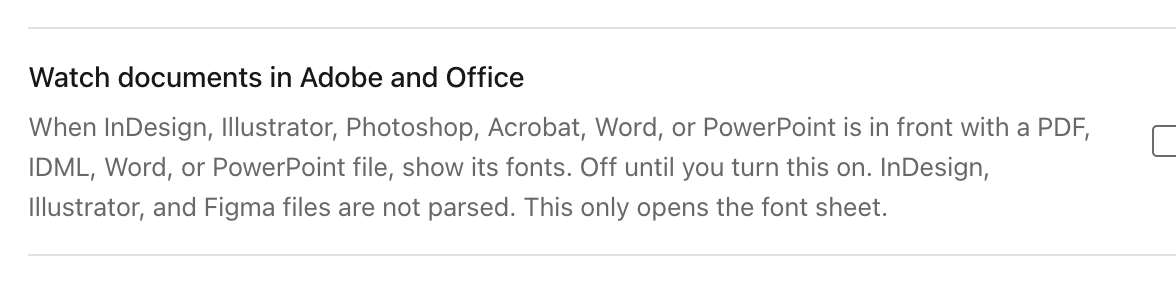
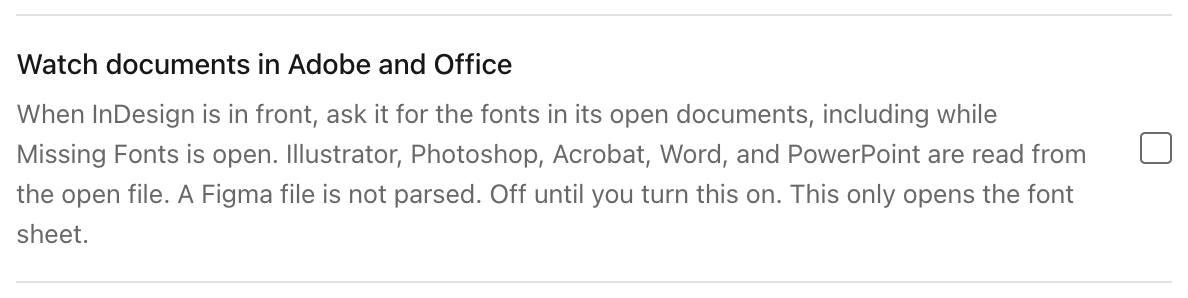
Open Settings from the Finder extension announcement (#111)
* Open Settings from the Finder extension announcement.

The what's-new Finder page can jump to Settings → General and scroll to the Finder Sync row. Search and Adobe watch figures match the token field and the InDesign live-query copy.

* Open Login Items from the Finder menu settings row.

The announcement's Open Settings control scrolls to a Finder menu button that opens System Settings → Login Items & Extensions, the pane where that extension is turned on.

diff --git a/src/components/SettingsDialog.tsx b/src/components/SettingsDialog.tsx
@@ -171,6 +171,7 @@ export function SettingsDialog({
   onCheckAppUpdate,
   highlightAppUpdate = false,
   highlightWatchFolders = false,
+  highlightFinderSync = false,
   onStartOnboarding,
   retail = null,
   retailFamiliesOnMac,
@@ -187,6 +188,8 @@ export function SettingsDialog({
   onCheckAppUpdate?: (refresh?: boolean) => void
   highlightAppUpdate?: boolean
   highlightWatchFolders?: boolean
+  /** Open General and scroll to the Finder Sync control in the App section. */
+  highlightFinderSync?: boolean
   onStartOnboarding?: () => void
   retail?: RetailSyncStatus | null
   retailFamiliesOnMac?: ReadonlySet<string>
@@ -227,6 +230,22 @@ export function SettingsDialog({
     if (!open || !highlightWatchFolders) return
     setCategory('folders')
   }, [open, highlightWatchFolders])
+
+  useEffect(() => {
+    if (!open || !highlightFinderSync) return
+    setCategory('general')
+  }, [open, highlightFinderSync])
+
+  useEffect(() => {
+    if (!open || !highlightFinderSync || category !== 'general') return
+    const frame = requestAnimationFrame(() => {
+      const control = document.querySelector<HTMLElement>('[aria-label="Finder menu in Login Items"]')
+      const row = control?.closest('.grid')
+      const target = row instanceof HTMLElement ? row : document.getElementById('finder-sync-settings')
+      target?.scrollIntoView({ block: 'center' })
+    })
+    return () => cancelAnimationFrame(frame)
+  }, [open, highlightFinderSync, category])
 
   useEffect(() => {
     if (!open) return
@@ -433,6 +452,7 @@ export function SettingsDialog({
                   checkingAppUpdate={checkingAppUpdate}
                   onCheckAppUpdate={onCheckAppUpdate}
                   highlightAppUpdate={highlightAppUpdate}
+                  highlightFinderSync={highlightFinderSync}
                   onStartOnboarding={onStartOnboarding}
                 />
               )}
@@ -525,6 +545,7 @@ function GeneralPane({
   checkingAppUpdate,
   onCheckAppUpdate,
   highlightAppUpdate,
+  highlightFinderSync,
   onStartOnboarding,
 }: {
   settings: AppSettings | null
@@ -535,6 +556,7 @@ function GeneralPane({
   checkingAppUpdate: boolean
   onCheckAppUpdate?: (refresh?: boolean) => void
   highlightAppUpdate: boolean
+  highlightFinderSync: boolean
   onStartOnboarding?: () => void
 }) {
   return (
@@ -671,7 +693,13 @@ function GeneralPane({
         <LatinPreviewRow settings={settings} busy={busy} onSave={onSave} />
       </SettingsSection>
 
-      <SettingsSection title="App">
+      <SettingsSection
+        id="finder-sync-settings"
+        title="App"
+        className={cn(
+          highlightFinderSync && 'rounded-md ring-2 ring-ring/40 ring-offset-2 ring-offset-background',
+        )}
+      >
         <SettingsRow
           label="Icon in menu bar"
           description="Keep Cuttler running in the menu bar after you close the window. The Dock icon hides until you show the window again. Click the icon to show the window, reinstall updated fonts, clear caches, or quit."
@@ -716,6 +744,25 @@ function GeneralPane({
               onChange={(event) => void onSave({ openAtLogin: event.target.checked })}
               className={checkboxClass}
             />
+          </SettingsRow>
+        ) : null}
+        {isDesktop ? (
+          <SettingsRow
+            label="Finder menu"
+            description="Enable the Finder menu in Login Items & Extensions. Until that is on, use Services → Install."
+          >
+            <Button
+              type="button"
+              variant="outline"
+              size="sm"
+              aria-label="Finder menu in Login Items"
+              disabled={busy}
+              onClick={() => {
+                void window.fontButlerDesktop?.openFinderLoginItems?.()
+              }}
+            >
+              Open Login Items & Extensions
+            </Button>
           </SettingsRow>
         ) : null}
         <SettingsRow

diff --git a/src/App.tsx b/src/App.tsx
@@ -249,6 +249,8 @@ function AppShell() {
   const [settingsOpen, setSettingsOpen] = useState(false)
   const [settingsFocusAppUpdate, setSettingsFocusAppUpdate] = useState(false)
   const [settingsFocusWatchFolders, setSettingsFocusWatchFolders] = useState(false)
+  const [settingsFocusFinderSync, setSettingsFocusFinderSync] = useState(false)
+  const [announcementSuspended, setAnnouncementSuspended] = useState(false)
   const [appUpdate, setAppUpdate] = useState<AppUpdateStatus | null>(null)
   const [appUpdateInstall, setAppUpdateInstall] = useState<{
     phase: 'idle' | 'downloading' | 'verifying' | 'installing' | 'opening' | 'error'
@@ -268,6 +270,16 @@ function AppShell() {
     setSettingsOpen(closed.settingsOpen)
     setSettingsFocusAppUpdate(closed.focusAppUpdate)
     setSettingsFocusWatchFolders(closed.focusWatchFolders)
+    setSettingsFocusFinderSync(closed.focusFinderSync)
+    setAnnouncementSuspended(false)
+  }
+
+  function openFinderSyncSettings() {
+    setSettingsFocusAppUpdate(false)
+    setSettingsFocusWatchFolders(false)
+    setSettingsFocusFinderSync(true)
+    setAnnouncementSuspended(true)
+    setSettingsOpen(true)
   }
 
   function applyFamilyTagPayload(payload: { tags?: FamilyTag[]; familyTags?: FamilyTagAssignment[] }) {
@@ -943,6 +955,7 @@ function AppShell() {
     function onKeyDown(event: KeyboardEvent) {
       if ((event.metaKey || event.ctrlKey) && event.key === ',') {
         event.preventDefault()
+        setSettingsFocusFinderSync(false)
         setSettingsOpen(true)
       }
     }
@@ -964,6 +977,8 @@ function AppShell() {
     })
     const stopDesktop = window.fontButlerDesktop?.onOpenSettings((payload) => {
       setSettingsFocusAppUpdate(payload?.focus === 'app-update')
+      setSettingsFocusWatchFolders(false)
+      setSettingsFocusFinderSync(false)
       setSettingsOpen(true)
     })
     const stopReinstall = window.fontButlerDesktop?.onReinstallFonts?.((payload) => {
@@ -2602,11 +2617,13 @@ function AppShell() {
           onOpenSettings={() => {
             setSettingsFocusAppUpdate(Boolean(appUpdate?.updateAvailable))
             setSettingsFocusWatchFolders(false)
+            setSettingsFocusFinderSync(false)
             setSettingsOpen(true)
           }}
           onOpenWatchFoldersSettings={() => {
             setSettingsFocusAppUpdate(false)
             setSettingsFocusWatchFolders(true)
+            setSettingsFocusFinderSync(false)
             setSettingsOpen(true)
           }}
         />
@@ -2731,6 +2748,7 @@ function AppShell() {
                       onOpenSettings={() => {
                         setSettingsFocusAppUpdate(false)
                         setSettingsFocusWatchFolders(true)
+                        setSettingsFocusFinderSync(false)
                         setSettingsOpen(true)
                       }}
                     />
@@ -3779,6 +3797,7 @@ function AppShell() {
           onCheckAppUpdate={(refresh) => void loadAppUpdate(refresh)}
           highlightAppUpdate={settingsFocusAppUpdate}
           highlightWatchFolders={settingsFocusWatchFolders}
+          highlightFinderSync={settingsFocusFinderSync}
           onStartOnboarding={() => {
             closeSettings()
             setOnboardingOpen(startOnboardingFromSettings().onboardingOpen)
@@ -3797,9 +3816,10 @@ function AppShell() {
         />
         <AnnouncementDialog
           announcement={announcement}
-          open={Boolean(announcement) && !onboardingOpen}
+          open={Boolean(announcement) && !onboardingOpen && !announcementSuspended}
           currentIcon={settings ? parseAppIconStyle(settings.appIcon) : null}
           onSelectIcon={chooseAnnouncementIcon}
+          onOpenFinderSettings={openFinderSyncSettings}
           onDismiss={(item) => {
             setAnnouncement(null)
             window.fontButlerDesktop?.dismissAnnouncement?.(item.id)

diff --git a/src/components/announcement-dialog.test.ts b/src/components/announcement-dialog.test.ts
@@ -85,6 +85,9 @@ test('AnnouncementDialog reuses welcome Dialog surface classes', async () => {
   assert.match(source, /'activate-until-quit':/)
   assert.match(source, /'adobe-document-watch':/)
   assert.match(source, /'finder-extension':/)
+  assert.match(source, /FINDER_EXTENSION_PAGE_ID/)
+  assert.match(source, /Open Settings/)
+  assert.match(source, /onOpenFinderSettings\?\.\(\)/)
   assert.match(source, /compare:\s*\[/)
   assert.doesNotMatch(source, /'library-search':/)
   assert.doesNotMatch(source, /'search-filter-suggestions':/)
@@ -140,11 +143,24 @@ test('ConfettiBurst is a main-window overlay, not nested in the dialog', async (
   const dialog = await readFile(fileURLToPath(new URL('./AnnouncementDialog.tsx', import.meta.url)), 'utf8')
   const confetti = await readFile(fileURLToPath(new URL('./ConfettiBurst.tsx', import.meta.url)), 'utf8')
   const app = await readFile(fileURLToPath(new URL('../App.tsx', import.meta.url)), 'utf8')
+  const settings = await readFile(fileURLToPath(new URL('./SettingsDialog.tsx', import.meta.url)), 'utf8')
+  const main = await readFile(fileURLToPath(new URL('../../electron/main.mjs', import.meta.url)), 'utf8')
+  const preload = await readFile(fileURLToPath(new URL('../../electron/preload.cjs', import.meta.url)), 'utf8')
   assert.doesNotMatch(dialog, /ConfettiBurst|confetti|canvas/)
   assert.match(confetti, /fixed inset-0/)
   assert.match(confetti, /burstConfetti/)
   assert.match(app, /<ConfettiBurst playKey=\{confettiPlayKey\}/)
   assert.match(app, /<AnnouncementDialog/)
   assert.match(app, /onSelectIcon=\{chooseAnnouncementIcon\}/)
+  assert.match(app, /onOpenFinderSettings=\{openFinderSyncSettings\}/)
+  assert.match(app, /highlightFinderSync=\{settingsFocusFinderSync\}/)
+  assert.match(settings, /id="finder-sync-settings"/)
+  const finderLabels = settings.match(/aria-label="Finder menu in Login Items"/g) ?? []
+  assert.equal(finderLabels.length, 2)
+  assert.match(settings, /Open Login Items & Extensions/)
+  assert.match(settings, /openFinderLoginItems\?\.\(\)/)
+  assert.match(main, /open-finder-login-items/)
+  assert.match(main, /x-apple\.systempreferences:com\.apple\.LoginItems-Settings\.extension/)
+  assert.match(preload, /openFinderLoginItems: \(\) => ipcRenderer\.invoke\('open-finder-login-items'\)/)
   assert.match(app, /updateSettings\(\{ appIcon: style \}\)/)
 })

diff --git a/src/components/AnnouncementDialog.tsx b/src/components/AnnouncementDialog.tsx
@@ -16,6 +16,7 @@ import {
 } from '../../shared/announcements.ts'
 
 const RENAME_PAGE_ID = 'rename'
+const FINDER_EXTENSION_PAGE_ID = 'finder-extension'
 const CUTTLER_ICON: AppIconStyle = 'cuttler'
 
 type PageFigure = { src: string; alt: string }
@@ -54,7 +55,7 @@ const PAGE_FIGURES: Record<string, PageFigure[]> = {
     },
     {
       src: '/announcement/search-filter-suggestions.png',
-      alt: 'Search field with matching filter suggestions',
+      alt: 'Search field with a chosen filter in the field and matching suggestions',
     },
   ],
   'activate-until-quit': [
@@ -101,6 +102,7 @@ export function AnnouncementDialog({
   onDismiss,
   currentIcon = null,
   onSelectIcon,
+  onOpenFinderSettings,
 }: {
   announcement: Announcement | null
   open: boolean
@@ -108,13 +110,15 @@ export function AnnouncementDialog({
   /** Null until settings have loaded, so the old icon is not guessed. */
   currentIcon?: AppIconStyle | null
   onSelectIcon?: (style: AppIconStyle) => Promise<void> | void
+  /** Opens Settings on the Finder Sync control. */
+  onOpenFinderSettings?: () => void
 }) {
   const item = announcement
   const pages = item ? pagesFor(item) : []
   const dismissedRef = useRef(false)
   const [saving, setSaving] = useState(false)
   const [pageIndex, setPageIndex] = useState(0)
-  const resetKey = `${open}:${item?.id ?? ''}`
+  const resetKey = item?.id ?? ''
   const [seenKey, setSeenKey] = useState(resetKey)
   if (seenKey !== resetKey) {
     setSeenKey(resetKey)
@@ -242,6 +246,11 @@ export function AnnouncementDialog({
           </div>
           {offersIconChoice ? null : (
             <div className="flex justify-end gap-2">
+              {page?.id === FINDER_EXTENSION_PAGE_ID ? (
+                <Button type="button" variant="outline" onClick={() => onOpenFinderSettings?.()}>
+                  Open Settings
+                </Button>
+              ) : null}
               {lastPage ? (
                 <Button type="button" onClick={dismiss}>
                   Got it

diff --git a/shared/announcements.ts b/shared/announcements.ts
@@ -44,7 +44,7 @@ export const WHATS_NEW_PAGES: AnnouncementPage[] = [
   {
     id: 'advanced-search',
     title: 'Advanced search',
-    body: 'Type several words — each one has to match. A tag name finds families with that tag. Start typing a filter name and matching filters appear under the search field; choose one to narrow the library and set the preview style.',
+    body: 'Type several words — each one has to match. A tag name finds families with that tag. Start typing a filter name and matching filters appear under the search field; choose one and it stays in the field, narrowing the library and the preview style.',
   },
   {
     id: 'activate-until-quit',
@@ -54,7 +54,7 @@ export const WHATS_NEW_PAGES: AnnouncementPage[] = [
   {
     id: 'adobe-document-watch',
     title: 'Adobe document watch',
-    body: 'In Settings, turn on Watch documents in Adobe and Office. When InDesign, Illustrator, Photoshop, Acrobat, Word, or PowerPoint is in front with a supported file, Cuttler opens the font sheet for that document.',
+    body: 'In Settings, turn on Watch documents in Adobe and Office. When InDesign is in front, Cuttler asks it for the fonts in its open documents, including while Missing Fonts is open. Illustrator, Photoshop, Acrobat, Word, and PowerPoint are read from the open file.',
   },
   {
     id: 'finder-extension',

diff --git a/src/lib/settingsSession.test.ts b/src/lib/settingsSession.test.ts
@@ -2,11 +2,12 @@ import assert from 'node:assert/strict'
 import { test } from 'node:test'
 import { closedSettingsFocus, startOnboardingFromSettings } from './settingsSession.ts'
 
-test('closing settings clears app-update and watch-folder deep-link focus', () => {
+test('closing settings clears app-update, watch-folder, and Finder Sync deep-link focus', () => {
   assert.deepEqual(closedSettingsFocus(), {
     settingsOpen: false,
     focusAppUpdate: false,
     focusWatchFolders: false,
+    focusFinderSync: false,
   })
 })
 
@@ -16,9 +17,11 @@ test('start onboarding reuses the settings close and only reopens onboarding', (
   assert.equal(next.settingsOpen, closed.settingsOpen)
   assert.equal(next.focusAppUpdate, closed.focusAppUpdate)
   assert.equal(next.focusWatchFolders, closed.focusWatchFolders)
+  assert.equal(next.focusFinderSync, closed.focusFinderSync)
   assert.equal(next.onboardingOpen, true)
   assert.deepEqual(Object.keys(next).sort(), [
     'focusAppUpdate',
+    'focusFinderSync',
     'focusWatchFolders',
     'onboardingOpen',
     'settingsOpen',

diff --git a/src/lib/settingsSession.ts b/src/lib/settingsSession.ts
@@ -2,14 +2,16 @@ export type ClosedSettingsFocus = {
   settingsOpen: false
   focusAppUpdate: false
   focusWatchFolders: false
+  focusFinderSync: false
 }
 
-/** Shared Settings dismiss: drop app-update and watch-folder deep-link focus. */
+/** Shared Settings dismiss: drop app-update, watch-folder, and Finder Sync deep-link focus. */
 export function closedSettingsFocus(): ClosedSettingsFocus {
   return {
     settingsOpen: false,
     focusAppUpdate: false,
     focusWatchFolders: false,
+    focusFinderSync: false,
   }
 }
 

diff --git a/src/components/SettingsRow.tsx b/src/components/SettingsRow.tsx
@@ -54,13 +54,15 @@ export function SettingsSection({
   title,
   children,
   className,
+  id,
 }: {
   title?: ReactNode
   children: ReactNode
   className?: string
+  id?: string
 }) {
   return (
-    <section className={cn(title ? 'mt-6 first:mt-0' : undefined, className)}>
+    <section id={id} className={cn(title ? 'mt-6 first:mt-0' : undefined, className)}>
       {title ? (
         <h3 className="flex items-center gap-2 text-sm font-medium text-foreground">{title}</h3>
       ) : null}

diff --git a/src/vite-env.d.ts b/src/vite-env.d.ts
@@ -22,6 +22,8 @@ declare global {
       ) => () => void
       onDocumentWatchNote?: (callback: (payload?: { path?: string; message?: string }) => void) => () => void
       openExternal?: (url: string) => Promise<boolean>
+      /** Opens System Settings → General → Login Items & Extensions. */
+      openFinderLoginItems?: () => Promise<boolean>
       installAppUpdate?: () => Promise<{
         ok: boolean
         ignored?: boolean
